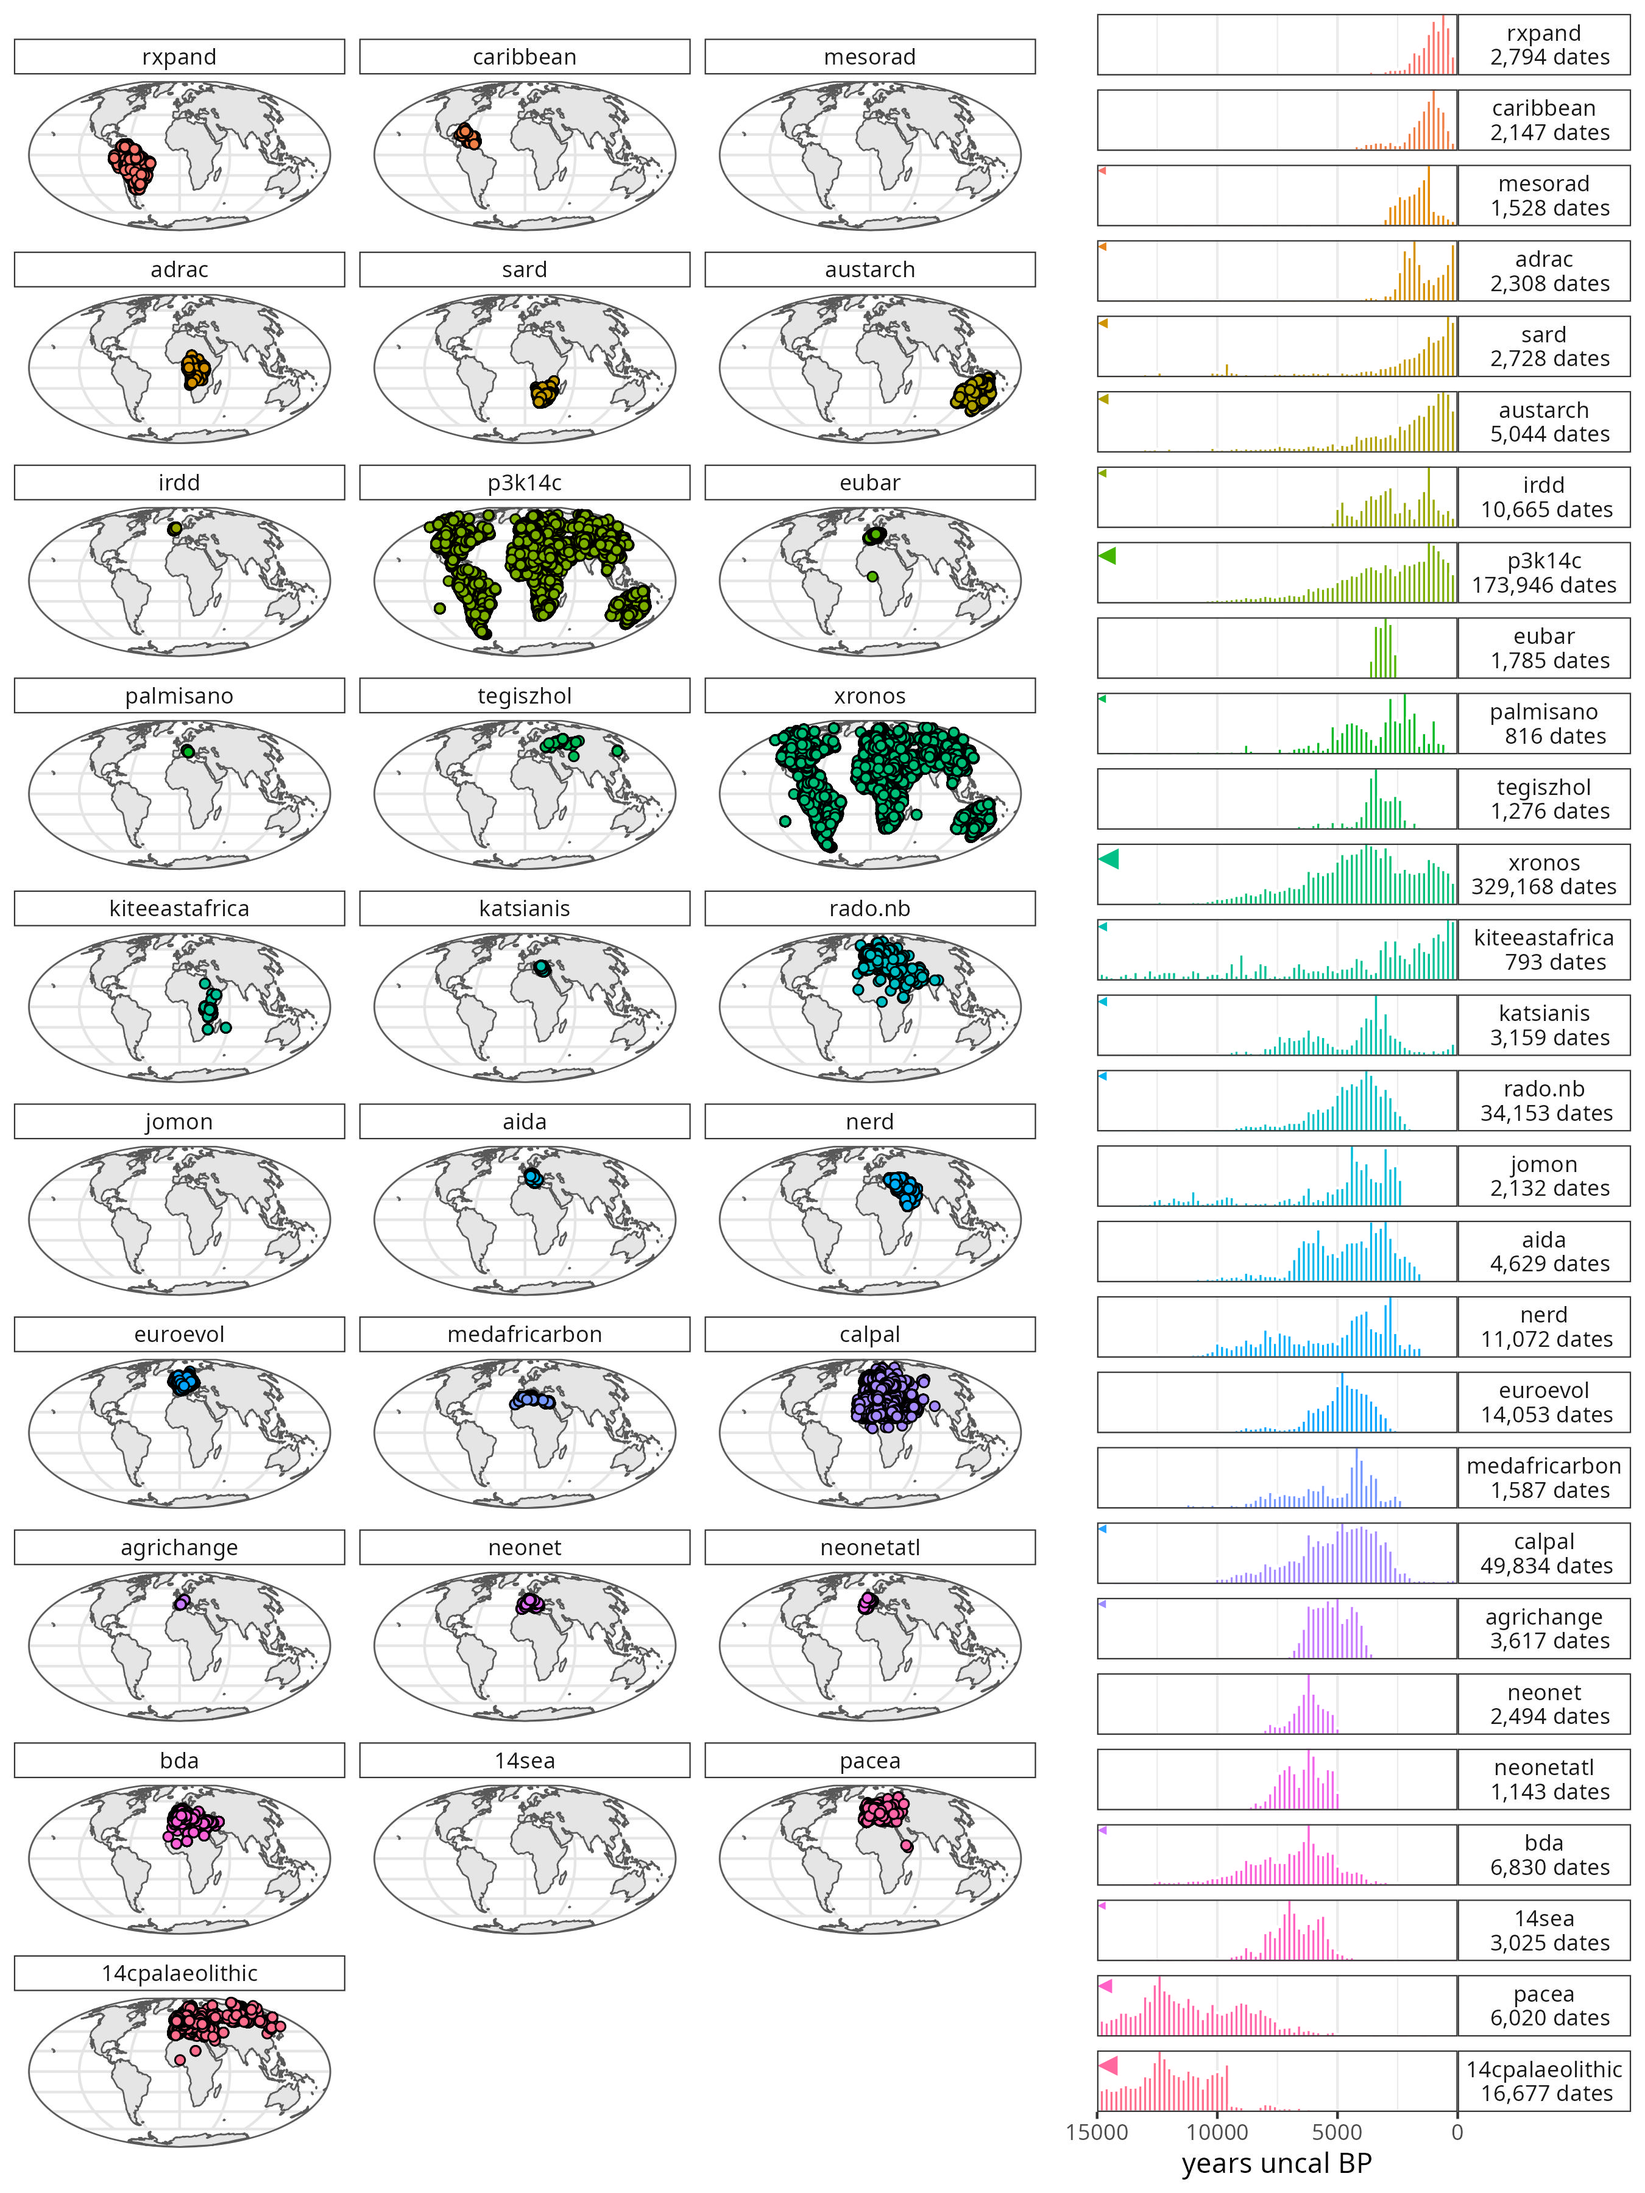
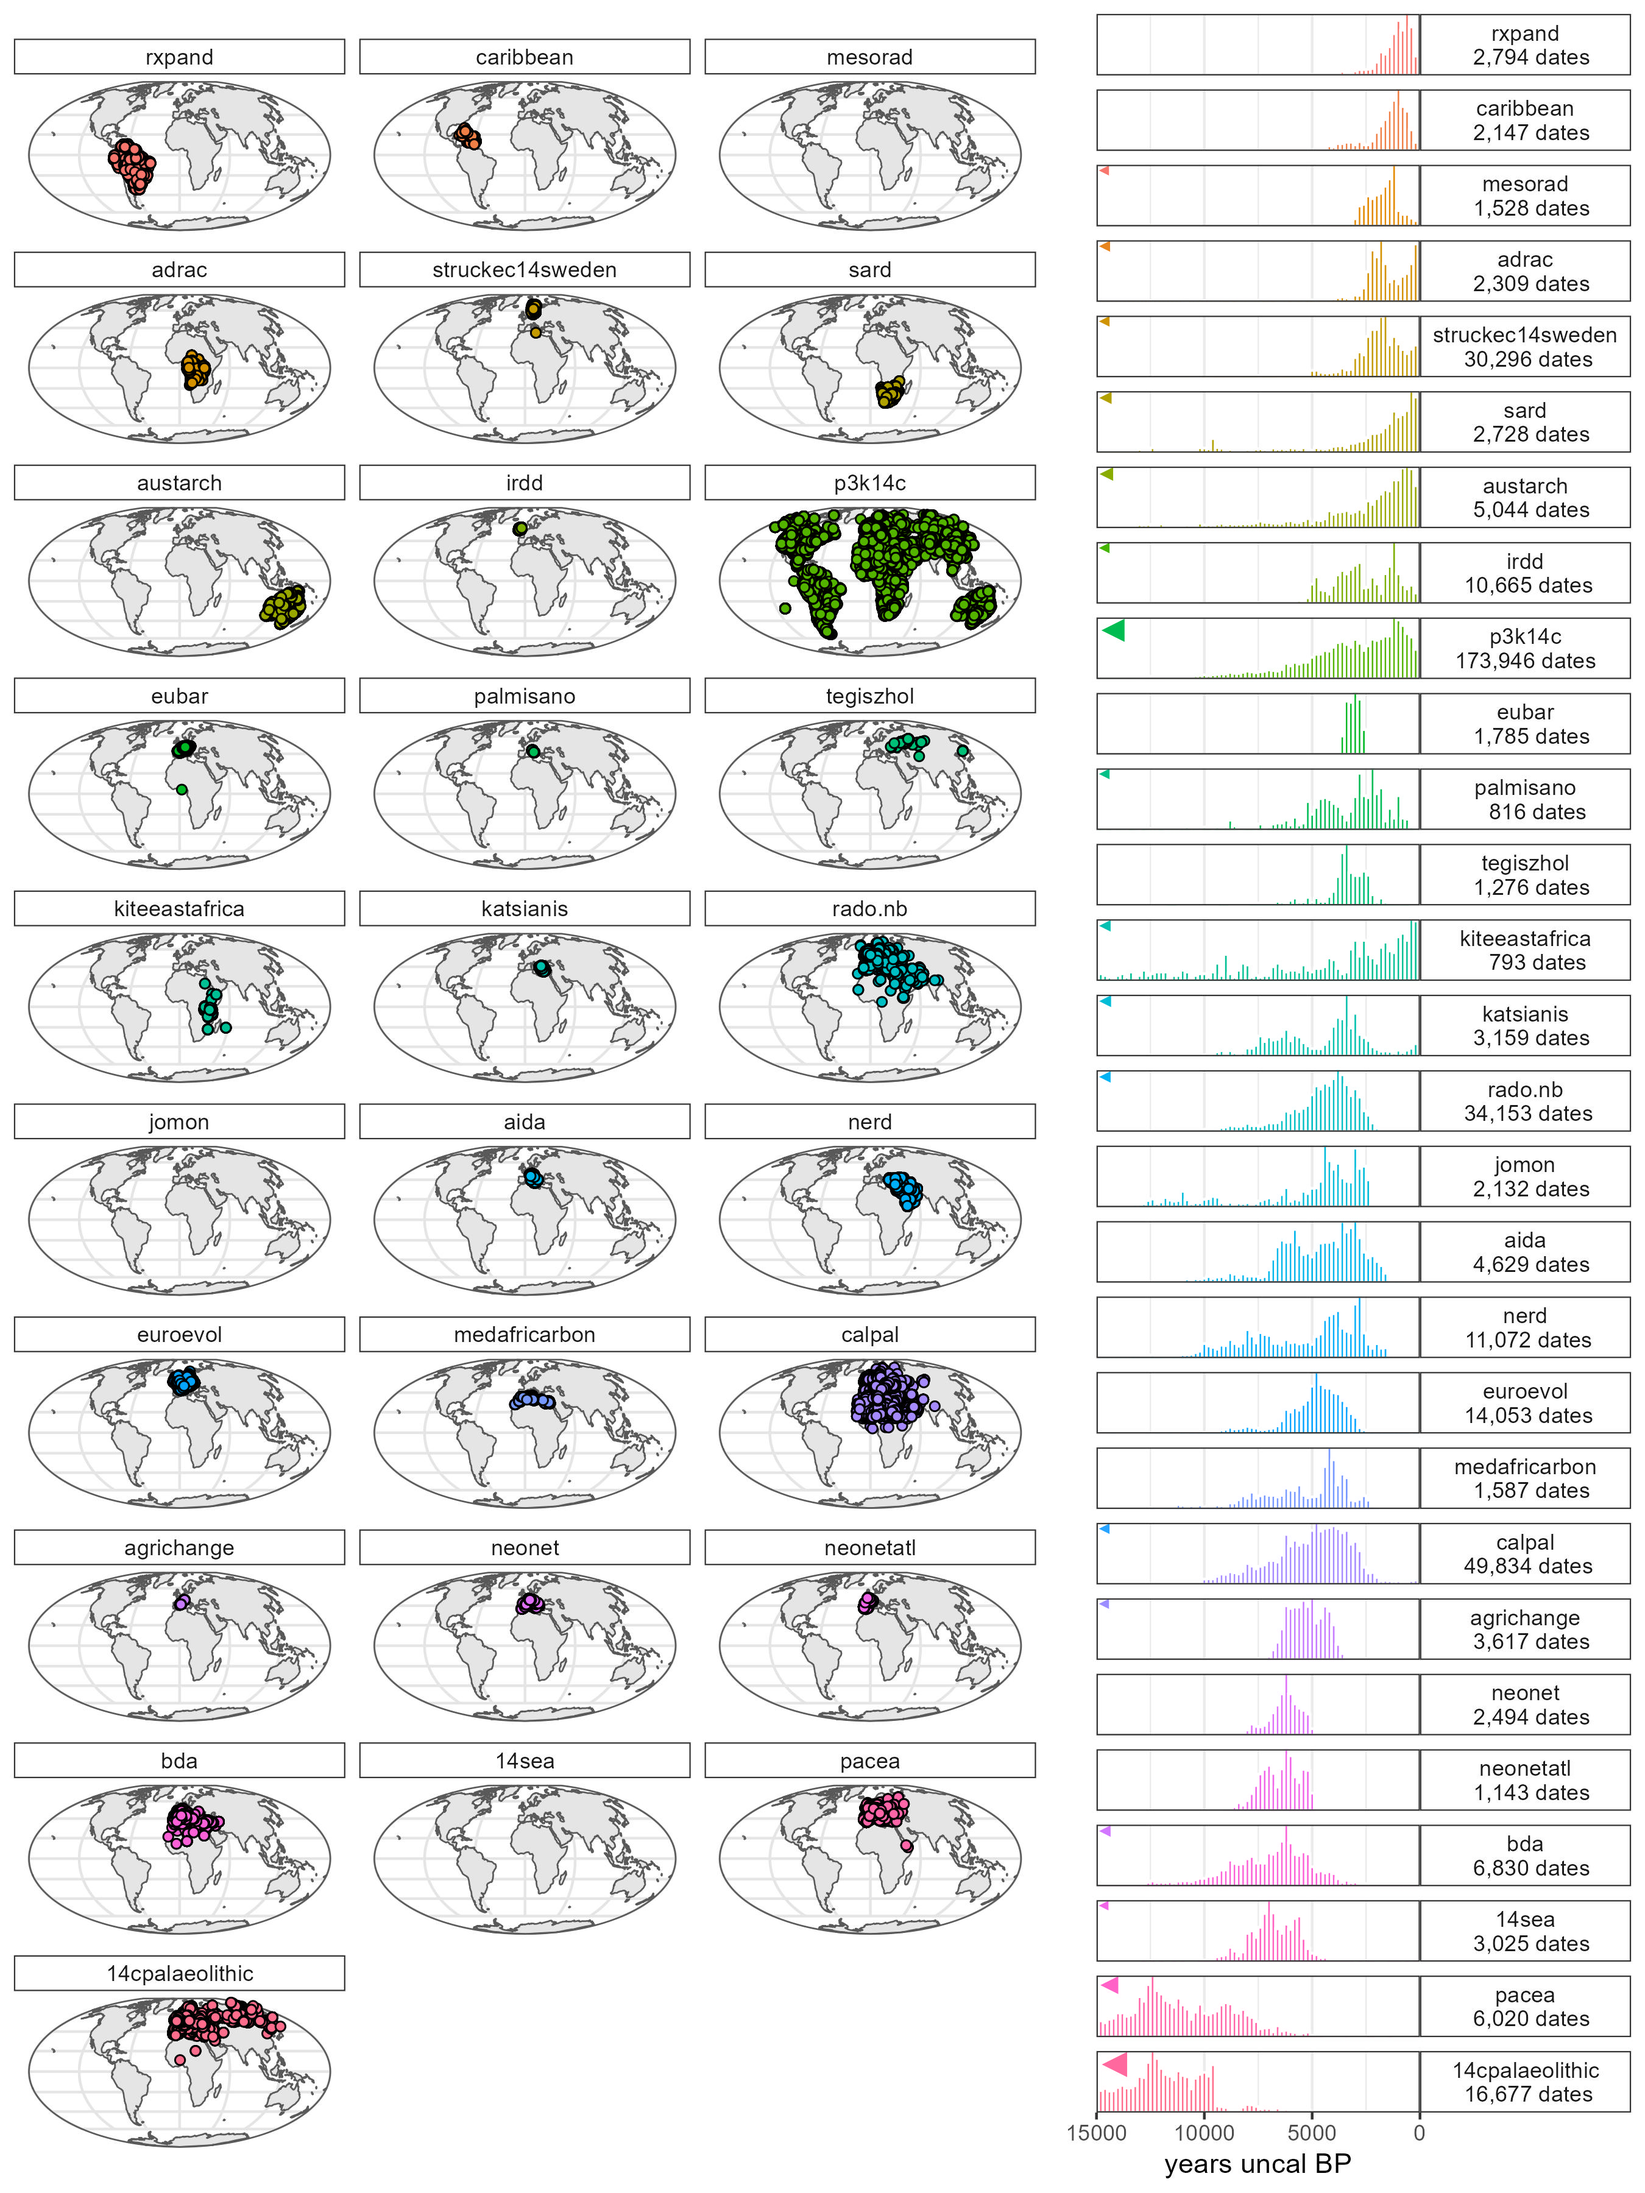
added getter parser for stucker c14 sweden dataset

diff --git a/README.md b/README.md
@@ -178,6 +178,7 @@ To suggest other archives to be queried you can join the discussion [here](https
 | [**rado.nb**](https://radonb.ufg.uni-kiel.de) <br> latest <br> [`get_c14data("rado.nb")`](R/get_rado.nb.R) | Database for European 14C dates for the Neolithic, the Bronze Age and the Early Iron Age. [Christoph Rinne, Jutta Kneisel, Martin Hinz, Martin Furholt, Nina Krischke, Johannes Müller, Dirk Raetzel-Fabian, Marcel Rodens, Karl-Göran Sjögren, Helle Vandkilde and Hans-Peter Wotzka](https://radonb.ufg.uni-kiel.de). |
 | [**rxpand**](https://github.com/jgregoriods/rxpand) <br> 2020-10-20 <br> [`get_c14data("rxpand")`](R/get_rxpand.R) | Radiocarbon dates for the spread of farming and ceramics in tropical South America by Jonas Gregorio de Souza. |
 | [**sard**](https://github.com/emmaloftus/Southern-African-Radiocarbon-Database) <br> 2021-03-01 <br> [`get_c14data("sard")`](R/get_sard.R) | Southern-African-Radiocarbon-Database by [Emma Loftus, Peter J. Mitchell & Christopher Bronk Ramsey](https://www.cambridge.org/core/journals/antiquity/article/abs/an-archaeological-radiocarbon-database-for-southern-africa/26FE99E995C4507015704D552CB0C196). |
+| [**struckec14sweden**](https://zenodo.org/records/21932353) <br> 2026-11-18 <br> [`get_c14data("struckec14sweden")`](R/get_struckec14sweden.R) | Strucke C14 Sweden: A Radiocarbon Dataset of Archaeological Contexts in Sweden by [Sakarias Lindgren, Daniel Löwenborg & Ulf Strucke](https://openarchaeologydata.metajnl.com/articles/10.5334/joad.230). |
 | [**tegiszhol**](https://doi.org/10.5281/zenodo.21752346) <br> 2026-08-02 (v1.1) <br> [`get_c14data("tegiszhol")`](R/get_tegiszhol.R) | Radiocarbon determinations extracted from Russian-, Kazakh- and Ukrainian-language publications covering the Eurasian steppe and forest-steppe, with a per-record freshwater reservoir assessment, by [Conor Reid](https://calgacus.srht.site/tegiszhol/). Roughly 90% do not appear in any other public compilation. |
 | [**XRONOS**](https://xronos.ch) <br> latest <br> [`get_c14data("xronos")`](R/get_xronos.R)  | Open Access Database for absolute chronological archaeological information by Martin Hinz, Joe Roe and Clemens Schmid.
 

diff --git a/NEWS.md b/NEWS.md
@@ -1,4 +1,8 @@
-# 5.3.0 (2026-08-08)
+# 5.4.0 (2026-11-18)
+
+- added getter function for struckec14sweden database: `get_struckec14sweden`
+
+# 5.3.0
 
 - added getter function for tegiszhol database: `get_tegiszhol`
 - updated `get_14cpalaeolithic` to use v33 of the source database 14cpalaeolithic
